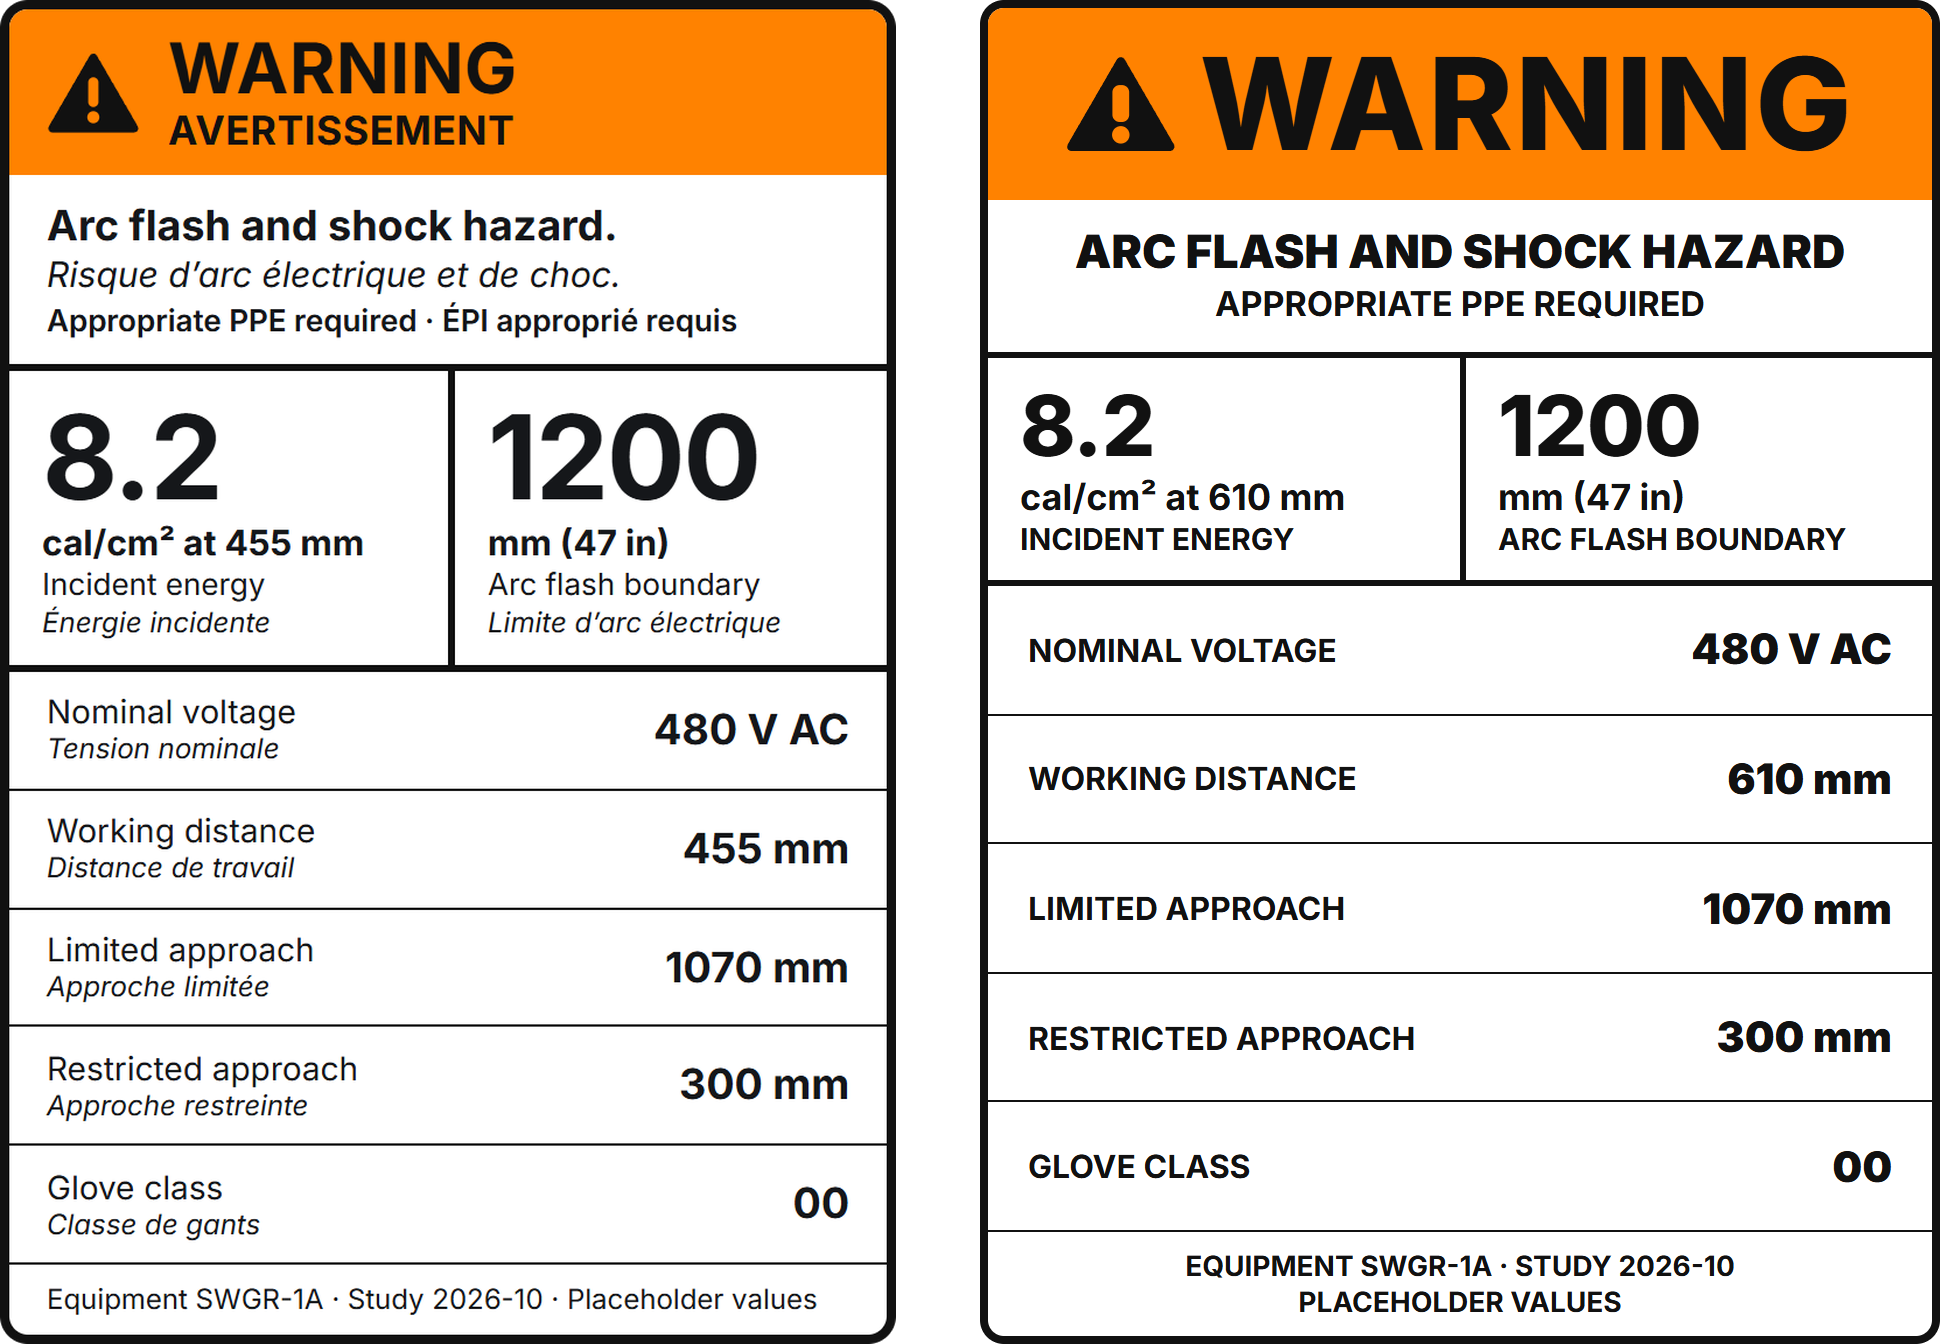
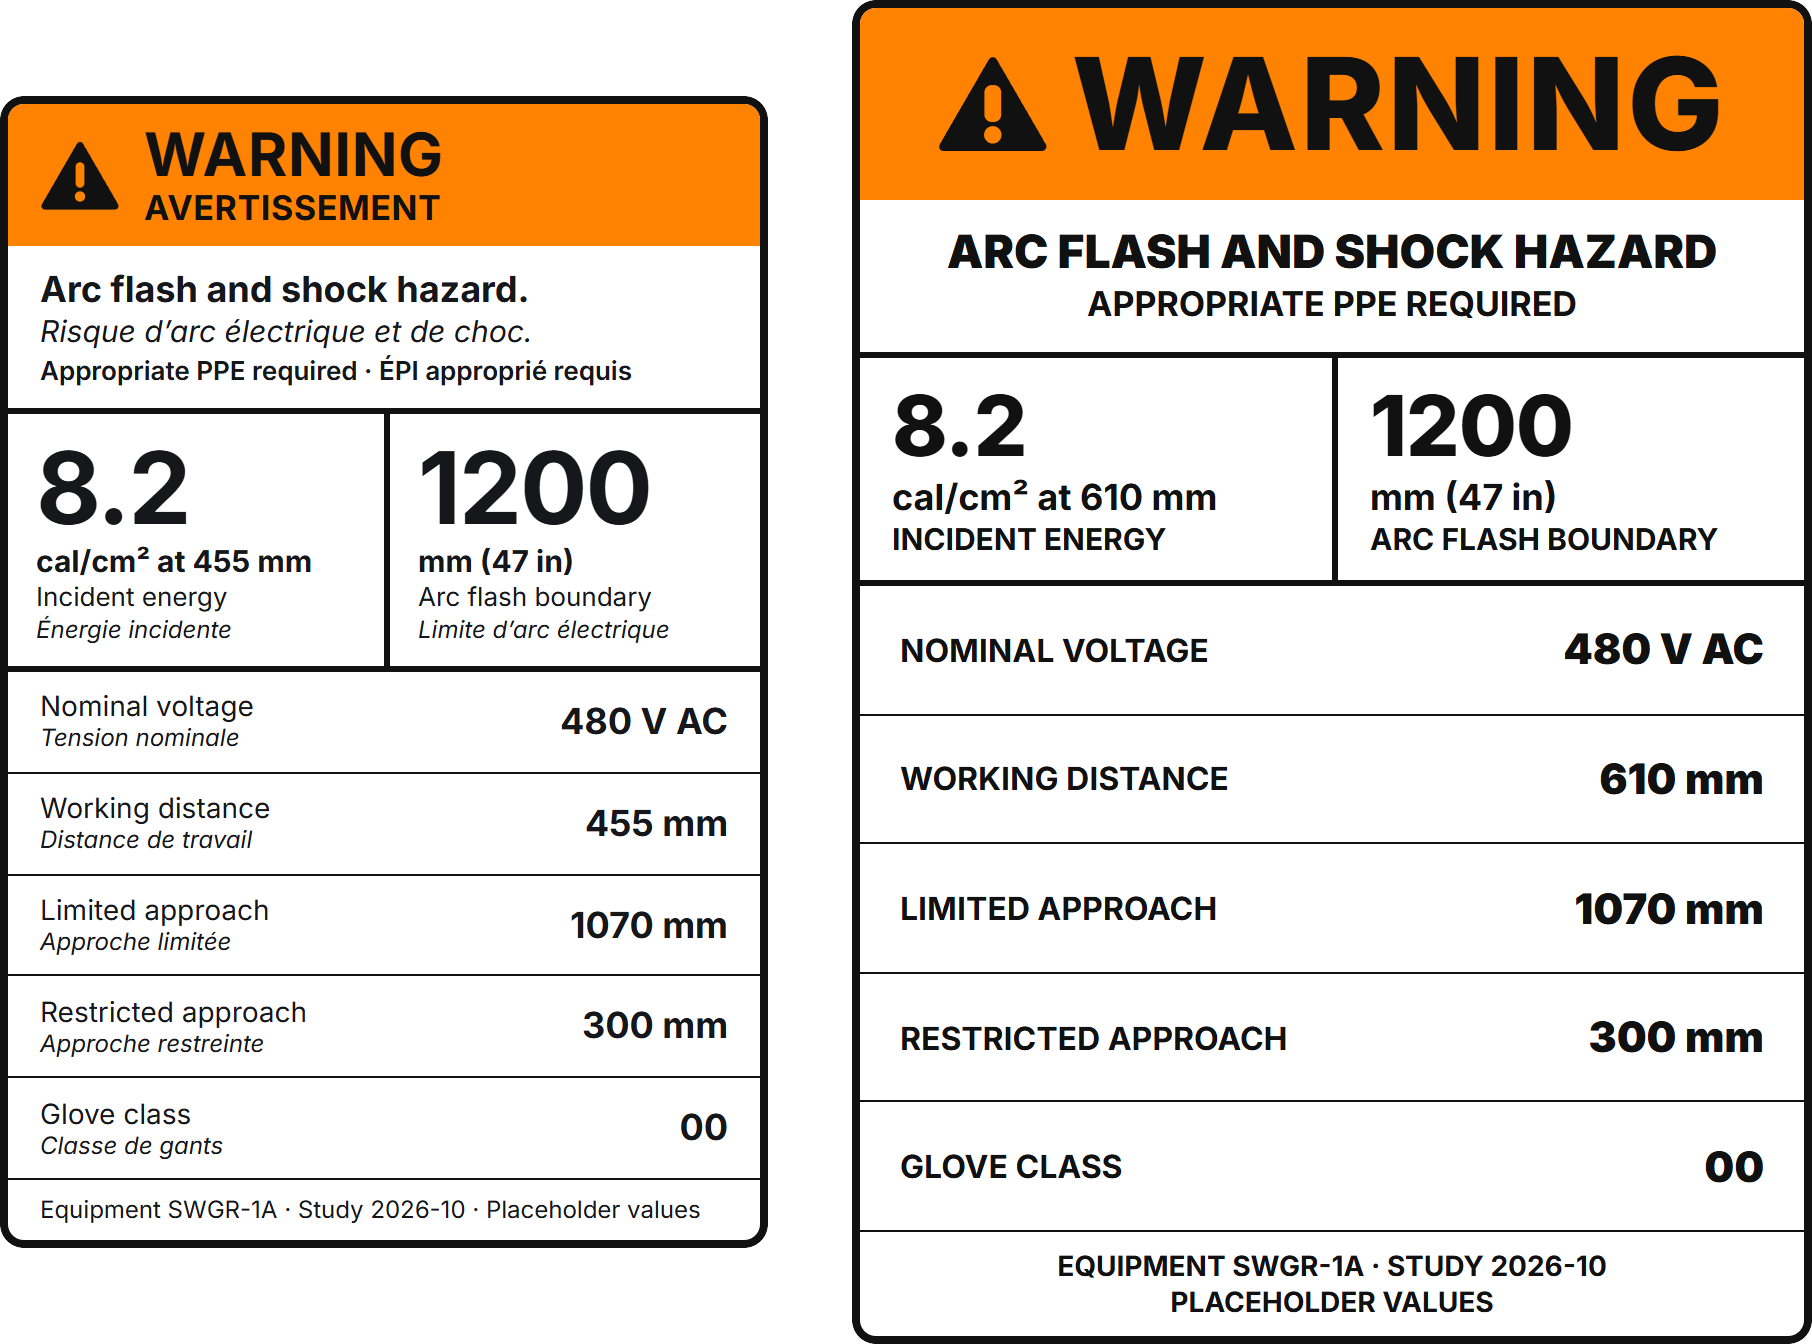
Thesis project page: labels in a set share one scale, phone captions head their plates
Equal heights had shrunk some labels, so their outlines looked thinner than their neighbours.

Claude-Session: https://claude.ai/code/session_01NgnytpXYzdBBA3D9ePeBqf

diff --git a/work/warning-labels.html b/work/warning-labels.html
@@ -22,7 +22,7 @@
   <link rel="preload" href="../fonts/inter-latin.woff2" as="font" type="font/woff2" crossorigin>
   <link rel="stylesheet" href="../css/fonts.css?v=20261020lang">
   <link rel="stylesheet" href="../css/style.css?v=20261031r4">
-  <style>.p-motion video { display: block; width: 100%; height: auto; } .p-motion .row > video { flex: 1 1 0%; width: 0; min-width: 0; } @media (max-width: 639px) { .p-motion .row > video { flex: none; width: 100%; } } .p-cap .p-cta { margin-top: 1.2em; } .p-art.plate { --pl: calc(min(100vw - 2 * var(--gutter), var(--wide)) * .04); background: #c6c6c6; padding: var(--pl); gap: var(--pl); } .p-art.plate .row { gap: var(--pl); } .p-note { color: var(--muted); }</style>
+  <style>.p-motion video { display: block; width: 100%; height: auto; } .p-motion .row > video { flex: 1 1 0%; width: 0; min-width: 0; } @media (max-width: 639px) { .p-motion .row > video { flex: none; width: 100%; } } .p-cta { width: min(100% - 2 * var(--gutter), var(--text)); margin: 1.2em auto 0; } @media (max-width: 639px) { .p-sec { display: flex; flex-direction: column; } .p-sec > .p-cap { order: -1; padding-top: 0; padding-bottom: 16px; } } .p-art.plate { --pl: calc(min(100vw - 2 * var(--gutter), var(--wide)) * .04); background: #c6c6c6; padding: var(--pl); gap: var(--pl); } .p-art.plate .row { gap: var(--pl); } .p-art.plate .row.same { align-items: center; } .p-art.plate .row.same > img { flex: var(--w) 1 0%; } @media (max-width: 639px) { .p-art.plate .row.same > img { flex: none; width: calc(100% * var(--w) / var(--wmax)); } } .p-note { color: var(--muted); }</style>
   <meta name="color-scheme" content="light dark">
   <meta name="theme-color" content="#ffffff">
   <style>html{background:#fff}html[data-theme="dark"]{background:#0d0d0d}@media (prefers-color-scheme:dark){html:not([data-theme="light"]){background:#0d0d0d}}</style>
@@ -63,7 +63,7 @@
 
   <main id="main">
     <figure class="p-hero is-fit" data-hero style="--hero-bg:#c6c6c6">
-      <img src="../img/wl-arc-before-after.png" alt="Arc flash warning label before and after the redesign" width="970" height="672" fetchpriority="high" decoding="async">
+      <img src="../img/wl-arc-before-after.png" alt="Arc flash warning label before and after the redesign" width="906" height="672" fetchpriority="high" decoding="async">
     </figure>
     <header class="p-head">
       <h1>Inspection Ready</h1>
@@ -76,10 +76,10 @@
     </div>
     <section class="p-sec" aria-labelledby="d-directions">
       <div class="p-art plate">
-        <div class="row">
-          <img src="../img/wl-v1.png" alt="First design direction for an electrical equipment warning label" width="480" height="336" style="--ar:1.4285714285714286" loading="lazy" decoding="async">
-          <img src="../img/wl-v2.png" alt="Second design direction for an electrical equipment warning label in portrait format" width="336" height="480" style="--ar:0.7" loading="lazy" decoding="async">
-          <img src="../img/wl-v3.png" alt="Third design direction for an electrical equipment warning label" width="480" height="336" style="--ar:1.4285714285714286" loading="lazy" decoding="async">
+        <div class="row same" style="--wmax:960">
+          <img src="../img/wl-v1.png" alt="First design direction for an electrical equipment warning label" width="480" height="336" style="--ar:1.4285714285714286;--w:960" loading="lazy" decoding="async">
+          <img src="../img/wl-v2.png" alt="Second design direction for an electrical equipment warning label in portrait format" width="336" height="480" style="--ar:0.7;--w:672" loading="lazy" decoding="async">
+          <img src="../img/wl-v3.png" alt="Third design direction for an electrical equipment warning label" width="480" height="336" style="--ar:1.4285714285714286;--w:960" loading="lazy" decoding="async">
         </div>
       </div>
       <div class="p-cap">
@@ -101,9 +101,9 @@
     </section>
     <section class="p-sec" aria-labelledby="d-arc">
       <div class="p-art plate">
-        <div class="row">
-          <img src="../img/wl-arc-before.png" alt="Arc flash warning label before revision" width="384" height="576" style="--ar:0.6666666666666666" loading="lazy" decoding="async">
-          <img src="../img/wl-arc-after.png" alt="Arc flash warning label after revision" width="480" height="672" style="--ar:0.7142857142857143" loading="lazy" decoding="async">
+        <div class="row same" style="--wmax:960">
+          <img src="../img/wl-arc-before.png" alt="Arc flash warning label before revision" width="384" height="576" style="--ar:0.6666666666666666;--w:768" loading="lazy" decoding="async">
+          <img src="../img/wl-arc-after.png" alt="Arc flash warning label after revision" width="480" height="672" style="--ar:0.7142857142857143;--w:960" loading="lazy" decoding="async">
         </div>
       </div>
       <div class="p-cap">
@@ -113,11 +113,11 @@
     </section>
     <section class="p-sec" aria-labelledby="d-personnel">
       <div class="p-art plate">
-        <div class="row">
-          <img src="../img/wl-qp-caution-person.png" alt="CAUTION label with a person at an equipment panel: qualified personnel only" width="301" height="554" style="--ar:0.5433212996389891" loading="lazy" decoding="async">
-          <img src="../img/wl-qp-notice-person.png" alt="NOTICE label with the same person at the panel: qualified personnel only" width="301" height="554" style="--ar:0.5433212996389891" loading="lazy" decoding="async">
-          <img src="../img/wl-qp-caution-prohibition.png" alt="CAUTION label with a crossed-out walking figure: qualified personnel only" width="301" height="554" style="--ar:0.5433212996389891" loading="lazy" decoding="async">
-          <img src="../img/wl-door-lock.png" alt="Door lock operation label with three illustrated steps to open the door and three to close it" width="375" height="806" style="--ar:0.4652605459057072" loading="lazy" decoding="async">
+        <div class="row same" style="--wmax:712">
+          <img src="../img/wl-qp-caution-person.png" alt="CAUTION label with a person at an equipment panel: qualified personnel only" width="301" height="554" style="--ar:0.5433212996389891;--w:602" loading="lazy" decoding="async">
+          <img src="../img/wl-qp-notice-person.png" alt="NOTICE label with the same person at the panel: qualified personnel only" width="301" height="554" style="--ar:0.5433212996389891;--w:602" loading="lazy" decoding="async">
+          <img src="../img/wl-qp-caution-prohibition.png" alt="CAUTION label with a crossed-out walking figure: qualified personnel only" width="301" height="554" style="--ar:0.5433212996389891;--w:602" loading="lazy" decoding="async">
+          <img src="../img/wl-door-lock.png" alt="Door lock operation label with three illustrated steps to open the door and three to close it" width="375" height="806" style="--ar:0.4652605459057072;--w:712" loading="lazy" decoding="async">
         </div>
       </div>
       <div class="p-cap">
@@ -139,8 +139,8 @@
       <div class="p-cap">
         <h2 id="d-website">Website</h2>
         <p>The finished website: home, label library and product pages, on desktop and phone.</p>
-        <p class="p-cta"><a class="arrow-link" href="../prototypes/switchgear-website/">Try the prototype</a></p>
       </div>
+      <p class="p-cta"><a class="arrow-link" href="../prototypes/switchgear-website/">Try the prototype</a></p>
     </section>
     <div class="p-text p-note">
       <p>This is the public version of the project. The client's name, logo and contact details have been removed, and all values, addresses, phone numbers and lead times on the labels and website are placeholders.</p>
